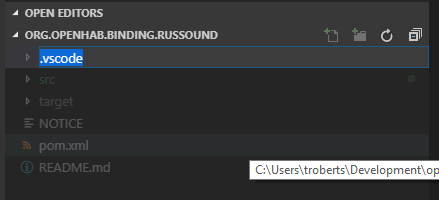
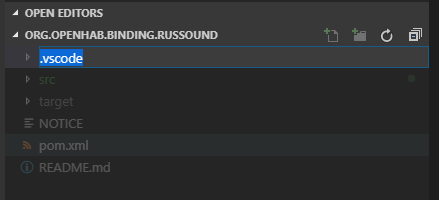
Updated tasks.json to fix linux/osx commands Fixed image that had some personal information in it Added code formatting settings Fixed breaks on images

Changed region(s): [[0.5626, 0.78, 1.0, 0.9]]

diff --git a/developers/ide/vscode.md b/developers/ide/vscode.md
@@ -15,6 +15,11 @@ The following steps will only need to be done once to setup both VSCode and your
    
 2. Clone the addons (https://github.com/openhab/openhab2-addons.git or preferably your own fork) to %BASE%\openhab2-addons
    
+3. If you want to setup openHAB code formatting guidelines, add the following to the VSCode settings:
+         
+    ![define .vscode](images/ide_setup_vscode_settings.png)
+
+    Either globally define the formatting options via ```Files->Preferences->Settings->Extendions->Java configuration``` (or in the global ```settings.json```).  You can also define them local to a specific bundle by putting those lines in the ```.vscode/settings.json``` file in the bundle (similar to ```tasks.json```/```launch.json``` below).
 
 ## Steps for each Bundle
 
@@ -27,15 +32,18 @@ The following steps will show you how to setup a specific bundle for development
    
 2. Open VSCode and then open the folder of the bundle.  From VSCode - use `File->Open Folder->choose bundle directory` (example: `%BASE%\openhab2-addons\bundles\org.openhab.binding.russound`)
    
-3. Create a ".vscode" directory under the bundle (example: `%BASE%\openhab2-addons\bundles\org.openhab.binding.russound\.vscode`)   
+3. Create a ".vscode" directory under the bundle (example: `%BASE%\openhab2-addons\bundles\org.openhab.binding.russound\.vscode`)
+      
     ![define .vscode](images/ide_setup_vscode_folder.png)
 
 4. Download [tasks.json](https://raw.githubusercontent.com/openhab/openhab-docs/master/developers/ide/examples/vscode/tasks.json) to the .vscode directory (example: `%BASE%\openhab2-addons\bundles\org.openhab.binding.russound\.vscode\tasks.json`)
+   
     ![define tasks.json](./images/ide_setup_vscode_folder_tasks.png)
    
 5. Edit tasks.json and ...
    
     ![tasks.json changes](./images/ide_setup_vscode_tasks.png)
+
    1. Set `openhab_*` to the directories for your openHAB installation 
    2. Set `dist` to the name of the JAR file maven is producing in the target directory
    3. Save and close tasks.json
@@ -52,6 +60,7 @@ The following steps will show you how to setup a specific bundle for development
 9.  Edit launch.json and ...
     
     ![launch.json changes](./images/ide_setup_vscode_launch.png)
+
     1. Set the `port` to xxxx (from step 7).  This can be skipped if xxxx was 5005 from step 7.
     2. Set the `hostName` to the hostname running openHAB.  This can be skipped if running locally (localhost)
     3. Save and close launch.json
